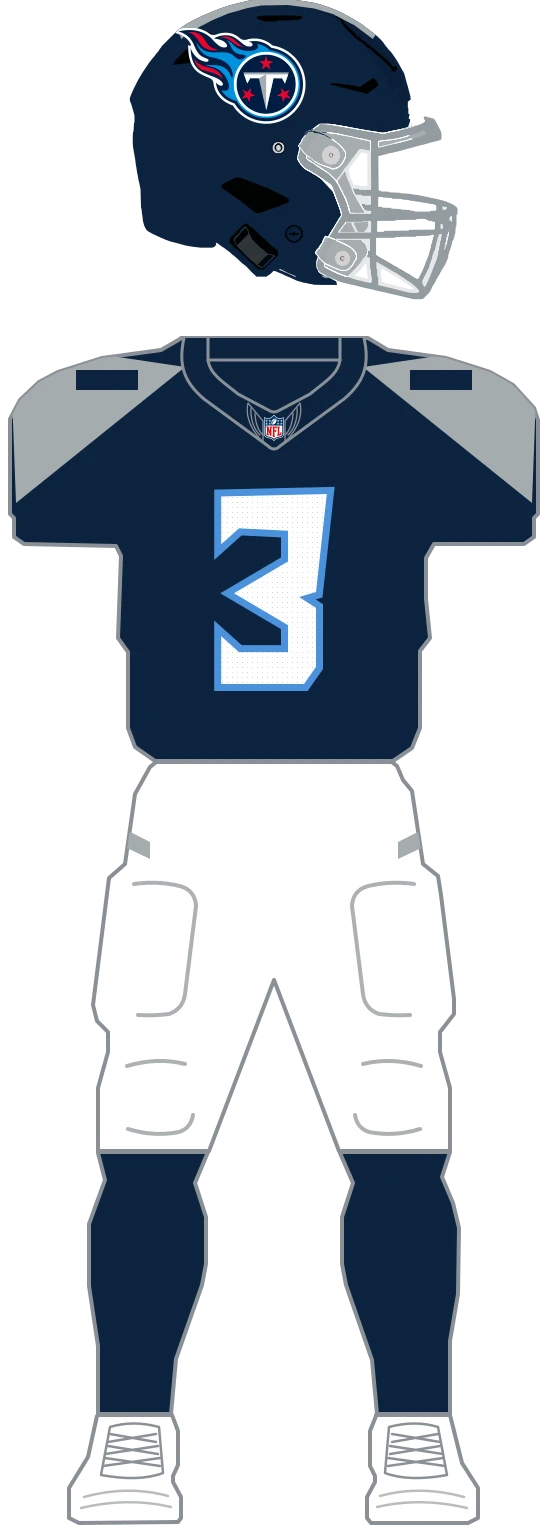
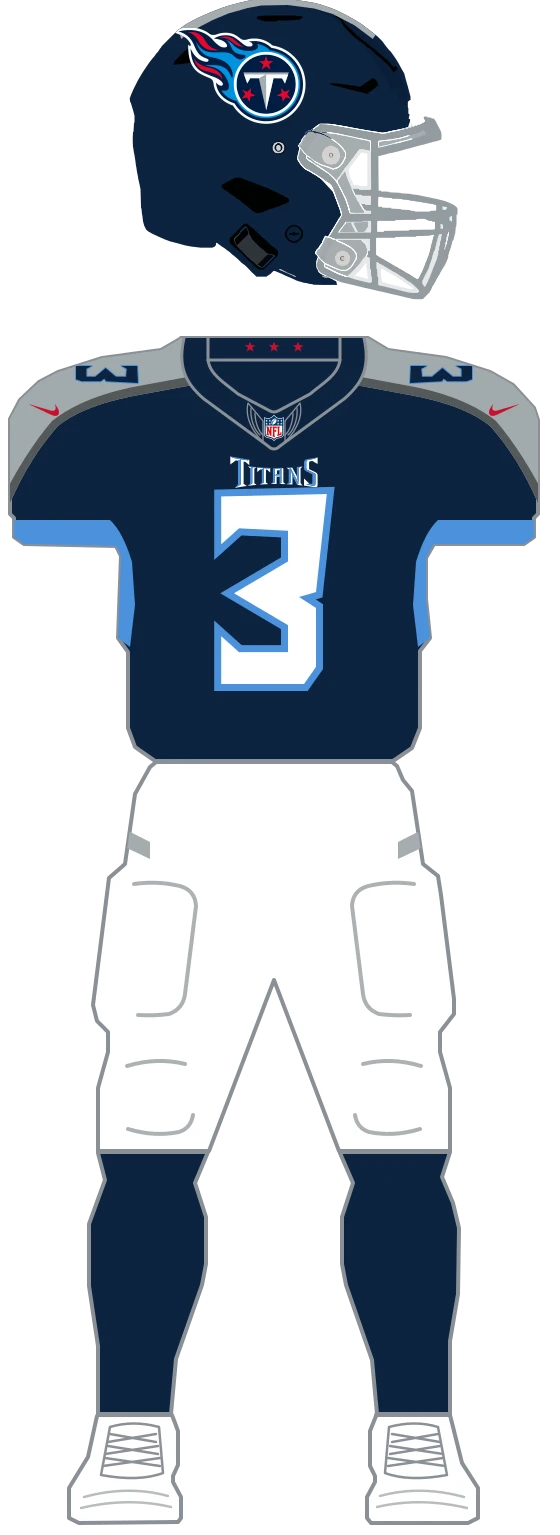
fix(uniforms): restore Titans navy home details (DEP-717)

Changed region(s): [[0.6375, 0.2143, 0.9714, 0.4287], [0.0, 0.2143, 0.3339, 0.4287], [0.425, 0.2756, 0.5768, 0.3368]]

diff --git a/web/lib/uniforms/teams/titans/marks/wordmark.ts b/web/lib/uniforms/teams/titans/marks/wordmark.ts
@@ -1,0 +1,22 @@
+import { placed } from '../../core/marks';
+
+export const TITANS_2018_CHEST_WORDMARK = placed([
+  {
+    id: 'titans-chest-wordmark-0',
+    surface: 'jersey',
+    kind: 'fill',
+    fill: 'white',
+    fillRule: 'evenodd',
+    clip: true,
+    d: 'M250.30,501.39 L250.30,509.47 L255.66,505.50 L255.77,505.42 L255.90,505.44 C256.20,505.49 257.46,505.67 257.73,505.71 L257.99,505.75 L260.83,504.20 L252.81,502.88 L250.30,501.39 Z M337.61,502.35 L334.07,503.88 C334.07,503.88 330.68,504.42 328.65,504.78 C326.62,505.14 326.26,506.29 326.26,507.47 L326.26,512.61 C326.26,513.74 326.74,514.42 327.07,514.76 L332.12,517.13 C333.22,517.66 334.06,518.04 334.57,518.31 C335.36,518.73 335.45,518.87 335.45,518.87 L335.45,528.78 C335.43,529.76 335.01,530.89 333.39,530.68 C333.27,530.66 332.26,530.53 332.25,530.53 C329.70,530.18 328.80,529.91 326.21,529.61 L329.24,528.66 L329.17,528.58 L324.03,523.47 L324.03,525.19 L324.03,530.64 C326.56,530.94 328.54,531.21 330.80,531.59 L333.44,532.04 C334.83,532.26 335.69,532.31 336.54,531.95 C337.23,531.66 337.59,530.98 337.60,529.93 L337.60,521.85 L337.61,521.44 C337.62,519.35 337.62,518.31 335.15,517.09 C332.38,515.72 329.28,514.25 329.25,514.24 L329.07,514.16 L329.07,508.00 C329.07,506.80 329.42,506.38 330.56,506.20 L332.25,505.95 L332.35,505.94 L332.45,505.99 L337.61,509.02 L337.61,502.35 Z M260.84,504.20 L260.84,529.35 L254.72,533.00 C258.31,532.22 262.62,531.56 266.85,530.95 L263.76,528.92 L263.62,528.83 L263.62,506.57 L265.29,506.85 L269.29,510.09 L269.29,507.55 L269.29,504.69 L267.75,505.34 L260.84,504.20 Z M267.96,511.16 L270.07,513.34 L272.28,512.39 L267.96,511.16 Z M272.28,512.39 L272.28,528.50 L267.66,530.85 C267.74,530.84 268.20,530.78 268.20,530.78 C270.69,530.46 273.49,530.14 275.90,529.91 L276.51,529.86 L274.40,528.27 L274.32,528.22 L274.32,513.70 L274.40,513.65 L276.51,512.10 L272.28,512.39 Z M322.53,511.38 L318.57,512.54 L318.57,528.24 L317.10,529.92 L322.54,530.49 L320.61,528.25 L320.56,528.20 L320.56,513.57 L320.61,513.52 L322.53,511.38 Z M318.57,528.24 L316.85,521.31 L316.51,520.66 L312.15,512.39 L310.57,513.05 L318.57,528.24 Z M310.57,513.05 L310.57,527.98 L306.50,529.19 L312.44,529.52 L312.44,520.93 L310.57,513.05 Z L306.52,512.73 L308.65,514.28 L308.73,514.34 L310.57,513.05 Z M277.27,512.16 L277.27,517.05 L280.29,514.40 L281.68,514.48 L281.85,514.49 L283.82,513.24 C283.76,513.23 283.67,513.23 283.67,513.23 C282.37,513.16 281.40,513.09 280.27,513.02 L278.37,512.87 L277.27,512.16 Z M290.21,512.90 L289.16,513.45 C289.16,513.45 286.00,513.34 284.44,513.27 L283.89,513.24 L283.83,513.24 L283.83,527.58 L279.65,529.56 C279.84,529.54 280.02,529.53 280.22,529.52 C282.72,529.35 285.11,529.23 287.53,529.15 C287.74,529.14 287.93,529.13 288.13,529.12 L285.98,527.42 L285.91,527.37 L285.91,514.65 L286.10,514.66 L287.21,514.72 L290.21,517.46 L290.21,512.90 L290.21,512.90 Z M302.69,513.07 L301.40,513.45 L301.40,520.32 L301.40,527.89 L299.59,528.98 C299.64,528.98 299.68,528.98 299.74,528.98 C301.30,529.00 304.57,529.11 304.57,529.11 L305.57,529.15 L303.41,527.38 L303.34,527.32 L303.34,527.24 L303.34,513.82 C303.34,513.60 303.27,513.30 302.69,513.07 Z M301.40,520.32 L294.71,520.32 L294.71,527.42 L290.51,529.00 C290.62,529.00 291.04,528.99 291.04,528.99 C293.03,528.94 294.75,528.92 296.45,528.92 L296.50,528.92 C296.53,528.92 296.56,528.92 296.60,528.92 L296.60,521.64 L296.78,521.64 L299.16,521.65 L299.41,521.65 L299.53,521.65 L299.60,521.65 L299.60,521.65 L301.40,520.32 Z M294.71,520.32 L296.95,519.07 L296.96,519.07 L296.96,515.38 L299.22,515.34 L299.22,515.35 L301.40,513.45 C299.73,513.50 297.87,513.52 295.87,513.54 C294.88,513.59 294.71,514.36 294.71,515.00 L294.71,520.32 Z',
+  },
+  {
+    id: 'titans-chest-wordmark-1',
+    surface: 'jersey',
+    kind: 'fill',
+    fill: 'lightBlue',
+    fillRule: 'evenodd',
+    clip: true,
+    d: 'M250.30,501.39 L252.81,502.88 L260.83,504.20 L267.75,505.34 L269.29,504.69 L250.30,501.39 Z M260.83,504.20 L257.99,505.75 L257.99,529.35 L254.72,533.00 L260.83,529.35 L260.83,504.20 Z M337.60,502.35 C335.97,502.64 329.29,503.85 327.16,504.16 C325.08,504.47 324.03,505.60 324.03,507.54 L324.03,510.87 L324.03,511.13 L324.03,511.19 L324.03,511.43 C324.03,511.44 324.03,511.46 324.03,511.47 L324.03,511.69 L324.03,511.72 C324.03,511.80 324.03,511.87 324.03,511.95 L324.03,511.99 C324.03,512.06 324.04,512.14 324.04,512.21 L324.04,512.22 C324.04,512.29 324.04,512.36 324.05,512.42 L324.05,512.45 C324.05,512.52 324.05,512.59 324.05,512.65 L324.05,512.68 C324.06,512.81 324.07,512.94 324.08,513.06 L324.08,513.09 C324.08,513.15 324.09,513.21 324.09,513.26 C324.09,513.27 324.09,513.27 324.09,513.28 C324.10,513.33 324.11,513.39 324.11,513.44 C324.11,513.44 324.11,513.45 324.11,513.45 C324.12,513.51 324.13,513.56 324.13,513.61 C324.13,513.62 324.13,513.63 324.14,513.63 C324.15,513.74 324.17,513.84 324.19,513.94 C324.19,513.94 324.19,513.95 324.19,513.95 C324.20,514.00 324.21,514.05 324.23,514.09 C324.23,514.10 324.23,514.10 324.23,514.10 C324.25,514.20 324.27,514.28 324.31,514.37 C324.31,514.37 324.31,514.38 324.31,514.38 C324.32,514.43 324.34,514.47 324.36,514.51 C324.36,514.51 324.36,514.51 324.36,514.51 C324.37,514.55 324.39,514.59 324.41,514.63 C324.41,514.63 324.41,514.64 324.41,514.64 C324.43,514.68 324.45,514.71 324.47,514.75 C324.47,514.76 324.47,514.76 324.47,514.76 C324.51,514.84 324.56,514.91 324.61,514.98 C324.61,514.98 324.61,514.99 324.61,514.99 C324.64,515.03 324.66,515.06 324.69,515.09 C324.69,515.10 324.69,515.10 324.69,515.10 C324.72,515.13 324.74,515.17 324.77,515.20 L324.77,515.20 C324.80,515.23 324.83,515.27 324.86,515.30 C324.86,515.30 324.87,515.31 324.87,515.31 C324.93,515.37 325.00,515.44 325.07,515.50 C325.07,515.50 325.07,515.50 325.07,515.51 C325.11,515.54 325.14,515.57 325.18,515.60 L325.19,515.61 C325.27,515.67 325.35,515.73 325.44,515.79 C325.44,515.79 325.44,515.80 325.45,515.80 C325.49,515.83 325.53,515.86 325.58,515.89 C325.58,515.89 325.58,515.89 325.58,515.89 C325.63,515.93 325.68,515.96 325.73,515.99 C325.73,515.99 326.09,516.22 326.67,516.52 C326.67,516.52 326.67,516.53 326.68,516.53 C327.50,516.96 328.76,517.60 330.20,518.28 L330.20,518.28 L332.39,519.31 L332.39,527.09 C332.39,527.67 332.34,528.25 331.98,528.58 C331.73,528.81 331.37,528.89 330.86,528.84 L329.89,528.73 L329.34,528.67 L329.24,528.66 L326.21,529.61 C328.79,529.91 329.70,530.18 332.25,530.53 C332.25,530.53 333.27,530.66 333.38,530.68 C335.01,530.89 335.43,529.76 335.45,528.78 L335.45,518.87 C335.45,518.87 335.36,518.73 334.56,518.31 C334.06,518.04 333.22,517.66 332.11,517.13 L327.07,514.76 C326.74,514.42 326.26,513.74 326.26,512.61 L326.26,507.47 C326.26,506.29 326.62,505.14 328.65,504.78 C330.68,504.42 334.06,503.88 334.06,503.88 L337.60,502.35 Z M267.96,511.16 L272.28,512.39 L276.50,512.10 C276.38,512.09 275.90,512.04 275.90,512.04 C273.36,511.80 270.63,511.50 268.20,511.19 C268.09,511.18 268.02,511.17 267.96,511.16 Z M272.28,512.39 L270.06,513.34 L270.06,528.58 L267.65,530.85 L272.28,528.50 L272.28,512.39 Z M322.52,511.38 L316.82,512.00 L316.85,521.31 L318.57,528.24 L318.57,512.54 L322.52,511.38 Z M318.57,528.24 L310.56,513.05 L312.43,520.93 L317.10,529.92 L318.57,528.24 Z M310.56,513.05 L308.72,514.34 L308.72,527.47 L306.50,529.19 L310.56,527.98 L310.56,513.05 Z L312.14,512.39 L306.52,512.73 L310.56,513.05 Z M277.26,512.16 L278.36,512.87 L280.26,513.02 C281.39,513.09 282.37,513.16 283.67,513.23 C283.67,513.23 283.75,513.23 283.81,513.24 L281.84,514.49 L281.84,527.53 L279.64,529.56 L283.82,527.58 L283.82,513.24 L283.89,513.24 L284.43,513.27 C286.00,513.34 289.16,513.45 289.16,513.45 L290.20,512.90 C290.15,512.90 290.07,512.90 290.06,512.90 C285.16,512.78 282.01,512.54 277.40,512.17 C277.36,512.17 277.31,512.16 277.26,512.16 Z M301.23,512.84 C301.07,512.84 300.88,512.85 300.68,512.85 C300.62,512.85 300.56,512.86 300.50,512.86 C300.40,512.86 300.29,512.86 300.18,512.87 C300.17,512.87 300.16,512.87 300.15,512.87 C300.03,512.87 299.91,512.87 299.79,512.88 C299.16,512.89 298.52,512.91 297.87,512.92 C297.80,512.92 297.73,512.93 297.66,512.93 C297.55,512.93 297.44,512.93 297.33,512.93 C297.24,512.94 297.14,512.94 297.04,512.94 C296.95,512.94 296.85,512.94 296.76,512.94 C296.64,512.95 296.52,512.95 296.41,512.95 C296.33,512.95 296.25,512.95 296.16,512.95 C295.96,512.95 295.77,512.96 295.57,512.96 C294.72,512.96 294.24,512.98 293.62,513.21 C292.97,513.46 292.89,513.78 292.89,514.00 L292.89,527.26 L290.50,529.00 L294.70,527.42 L294.70,520.32 L294.70,520.32 L294.70,515.00 C294.70,514.36 294.87,513.59 295.86,513.54 C297.87,513.52 299.73,513.50 301.40,513.45 L302.69,513.07 C302.65,513.06 302.61,513.04 302.56,513.03 C302.08,512.87 301.73,512.83 301.23,512.84 Z M301.40,513.45 L299.22,515.35 L299.22,519.06 L296.96,519.07 L296.95,519.07 L294.70,520.32 L301.40,520.32 L301.40,520.32 L301.40,513.45 Z M301.40,520.32 L299.59,521.65 L299.59,528.98 L301.40,527.89 L301.40,520.32 Z',
+  },
+]);

diff --git a/web/lib/uniforms/teams/titans/marks/construction.ts b/web/lib/uniforms/teams/titans/marks/construction.ts
@@ -3,6 +3,7 @@ import { HELMET_CROWN_STRIPE_PATH } from '../../core/shared';
 import type { PartLayer } from '../../core/parts';
 import { TITANS_FLAMING_T_PATHS } from './flaming-t';
 import { TITANS_2026_SHIELD } from './shield';
+import { NIKE_MARK } from '../../core/pants-logos';
 
 const fill = (id: string, surface: PartLayer['surface'], d: string, color: string): PartLayer => ({
   id,
@@ -96,3 +97,115 @@ export const TITANS_2026_SLEEVES = placed([
   ...sleeveBand('titans-2026-sleeve-white-bottom', 529, 535, 'white'),
   ...sleeveBand('titans-2026-sleeve-red-bottom', 535, 540, 'red2026'),
 ]);
+
+export const TITANS_2018_NAVY_PANELS = placed([
+  fill(
+    'titans-navy-yoke-left',
+    'sleeve-left',
+    'M20,360 H218 V429 L164,439 Q105,449 78,471 Q50,502 30,548 H20 Z',
+    'wolfGrey'
+  ),
+  fill(
+    'titans-navy-yoke-right',
+    'sleeve-right',
+    'M568,360 H370 V429 L424,439 Q483,449 510,471 Q538,502 558,548 H568 Z',
+    'wolfGrey'
+  ),
+  fill(
+    'titans-navy-yoke-bevel-left',
+    'sleeve-left',
+    'M218,420 L164,430 Q105,440 72,466 Q44,499 20,548 H30 Q50,502 78,471 Q105,449 164,439 L218,429 Z',
+    'steelGrey'
+  ),
+  fill(
+    'titans-navy-yoke-bevel-right',
+    'sleeve-right',
+    'M370,420 L424,430 Q483,440 516,466 Q544,499 568,548 H558 Q538,502 510,471 Q483,449 424,439 L370,429 Z',
+    'steelGrey'
+  ),
+  fill(
+    'titans-underarm-left',
+    'jersey',
+    'M30,565 L130,565 Q143,577 152,607 L155,650 L150,692 L138,683 L141,601 L136,591 L44,589 L34,582 Z',
+    'lightBlue'
+  ),
+  fill(
+    'titans-underarm-right',
+    'jersey',
+    'M558,565 L458,565 Q445,577 436,607 L433,650 L438,692 L450,683 L447,601 L452,591 L544,589 L554,582 Z',
+    'lightBlue'
+  ),
+]);
+
+export const TITANS_2018_NECK_STARS = placed([
+  fill(
+    'titans-neck-star-0',
+    'collar',
+    'M270.00,386.50 L271.35,390.14 L275.23,390.30 L272.19,392.71 L273.23,396.45 L270.00,394.30 L266.77,396.45 L267.81,392.71 L264.77,390.30 L268.65,390.14 Z',
+    'red'
+  ),
+  fill(
+    'titans-neck-star-1',
+    'collar',
+    'M294.00,386.50 L295.35,390.14 L299.23,390.30 L296.19,392.71 L297.23,396.45 L294.00,394.30 L290.77,396.45 L291.81,392.71 L288.77,390.30 L292.65,390.14 Z',
+    'red'
+  ),
+  fill(
+    'titans-neck-star-2',
+    'collar',
+    'M318.00,386.50 L319.35,390.14 L323.23,390.30 L320.19,392.71 L321.23,396.45 L318.00,394.30 L314.77,396.45 L315.81,392.71 L312.77,390.30 L316.65,390.14 Z',
+    'red'
+  ),
+]);
+
+export const TITANS_2018_NAVY_NUMBERS = placed([
+  {
+    id: 'titans-navy-shoulder-number-outline-left',
+    surface: 'sleeve-left',
+    d: 'M157.20,411.00 L158.00,428.00 L126.00,426.26 L124.40,423.52 L120.80,426.26 L101.60,426.26 L96.00,424.33 L96.00,411.00 L111.60,411.00 L106.40,413.87 L106.40,421.75 L115.20,421.75 L125.60,413.06 L136.00,421.75 L146.00,421.75 L146.80,413.87 L141.60,411.00 Z',
+    clip: true,
+    kind: 'stroke',
+    stroke: 'lightBlue',
+    strokeWidth: 2,
+  },
+  fill(
+    'titans-navy-shoulder-number-left',
+    'sleeve-left',
+    'M157.20,411.00 L158.00,428.00 L126.00,426.26 L124.40,423.52 L120.80,426.26 L101.60,426.26 L96.00,424.33 L96.00,411.00 L111.60,411.00 L106.40,413.87 L106.40,421.75 L115.20,421.75 L125.60,413.06 L136.00,421.75 L146.00,421.75 L146.80,413.87 L141.60,411.00 Z',
+    'navy'
+  ),
+  {
+    id: 'titans-navy-shoulder-number-outline-right',
+    surface: 'sleeve-right',
+    d: 'M430.80,411.00 L430.00,428.00 L462.00,426.26 L463.60,423.52 L467.20,426.26 L486.40,426.26 L492.00,424.33 L492.00,411.00 L476.40,411.00 L481.60,413.87 L481.60,421.75 L472.80,421.75 L462.40,413.06 L452.00,421.75 L442.00,421.75 L441.20,413.87 L446.40,411.00 Z',
+    clip: true,
+    kind: 'stroke',
+    stroke: 'lightBlue',
+    strokeWidth: 2,
+  },
+  fill(
+    'titans-navy-shoulder-number-right',
+    'sleeve-right',
+    'M430.80,411.00 L430.00,428.00 L462.00,426.26 L463.60,423.52 L467.20,426.26 L486.40,426.26 L492.00,424.33 L492.00,411.00 L476.40,411.00 L481.60,413.87 L481.60,421.75 L472.80,421.75 L462.40,413.06 L452.00,421.75 L442.00,421.75 L441.20,413.87 L446.40,411.00 Z',
+    'navy'
+  ),
+]);
+
+export const TITANS_2018_NAVY_NIKE = placed(
+  ['left', 'right'].map((side) => {
+    const [x0, y0, x1, y1] = NIKE_MARK.box;
+    let coordinate = 0;
+    const d = NIKE_MARK.paths[0].d.replace(/-?\d+(?:\.\d+)?/g, (n) => {
+      const value = Number(n);
+      if (coordinate++ % 2) return (449 + ((value - y0) * 12) / (y1 - y0)).toFixed(2);
+      const x = 79 - ((value - x0) * 30) / (x1 - x0);
+      return (side === 'left' ? x : 588 - x).toFixed(2);
+    });
+    return fill(
+      `titans-navy-nike-${side}`,
+      side === 'left' ? 'sleeve-left' : 'sleeve-right',
+      d,
+      'red'
+    );
+  })
+);

diff --git a/web/lib/uniforms/teams/titans/jerseys/navy.ts b/web/lib/uniforms/teams/titans/jerseys/navy.ts
@@ -1,6 +1,12 @@
+import { TITANS_2018_CHEST_WORDMARK } from '../marks/wordmark';
 import type { CompleteJerseySpec } from '../../core/complete';
 import { TITANS_2018_NUMBER_THREE } from '../marks/numbers';
-import { TITANS_2018_SHOULDERS } from '../marks/construction';
+import {
+  TITANS_2018_NAVY_PANELS,
+  TITANS_2018_NECK_STARS,
+  TITANS_2018_NAVY_NUMBERS,
+  TITANS_2018_NAVY_NIKE,
+} from '../marks/construction';
 
 export const JERSEY_NAVY: CompleteJerseySpec = {
   body: 'navy',
@@ -24,8 +30,14 @@ export const JERSEY_NAVY: CompleteJerseySpec = {
     fill: 'white',
     outline: 'lightBlue',
     outlineWeight: 'regular',
-    texture: 'mesh',
+    texture: 'plain',
     glyphPath: TITANS_2018_NUMBER_THREE,
   },
-  marks: [{ paint: 'under', mark: TITANS_2018_SHOULDERS }],
+  marks: [
+    { paint: 'over', mark: TITANS_2018_CHEST_WORDMARK },
+    { paint: 'under', mark: TITANS_2018_NAVY_PANELS },
+    { paint: 'under', mark: TITANS_2018_NAVY_NUMBERS },
+    { paint: 'over', mark: TITANS_2018_NAVY_NIKE },
+    { paint: 'over', mark: TITANS_2018_NECK_STARS },
+  ],
 };

diff --git a/web/lib/uniforms/teams/titans/parts.ts b/web/lib/uniforms/teams/titans/parts.ts
@@ -20,6 +20,8 @@ export const TITANS_PALETTE = {
   red: '#C8102E',
   white: '#FFFFFF',
   silver: '#A5ACAF',
+  wolfGrey: '#A2AAAD',
+  steelGrey: '#54585A',
   lightBlue2026: '#4495D2',
   red2026: '#D50A0A',
   ...Object.fromEntries(TITANS_FLAMING_T_PATHS.map(({ fill }) => [fill, fill])),
